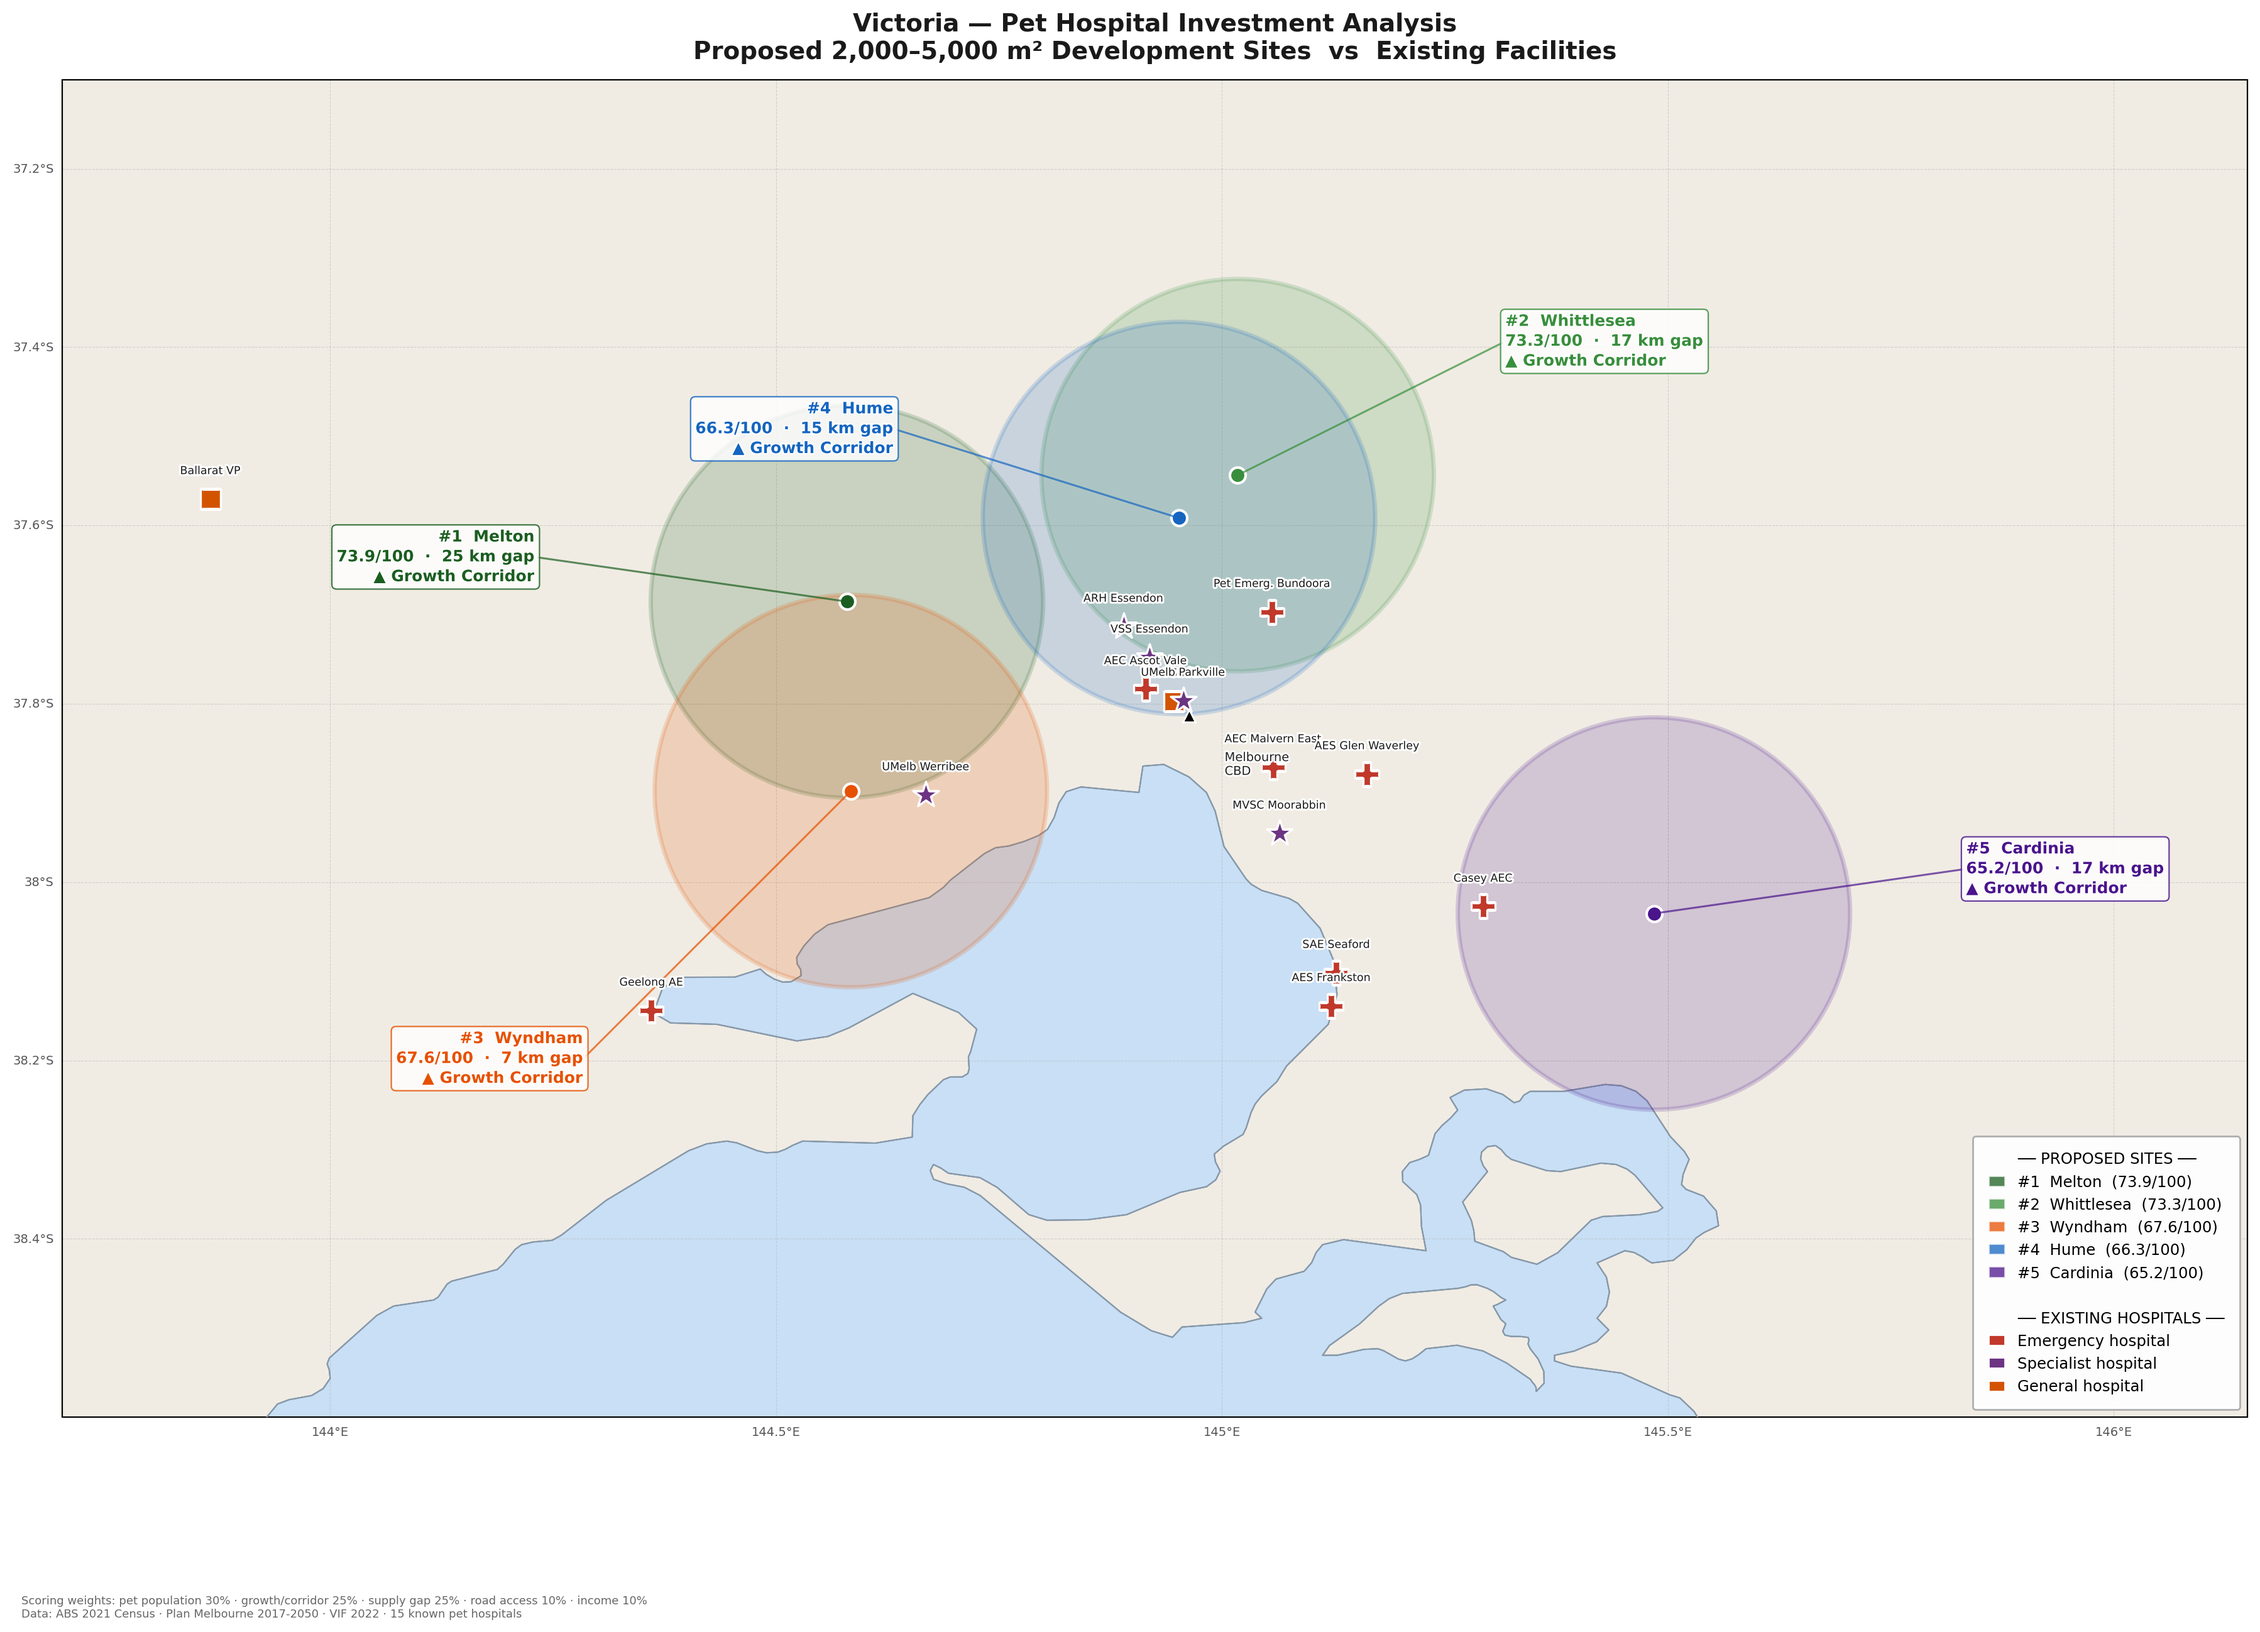
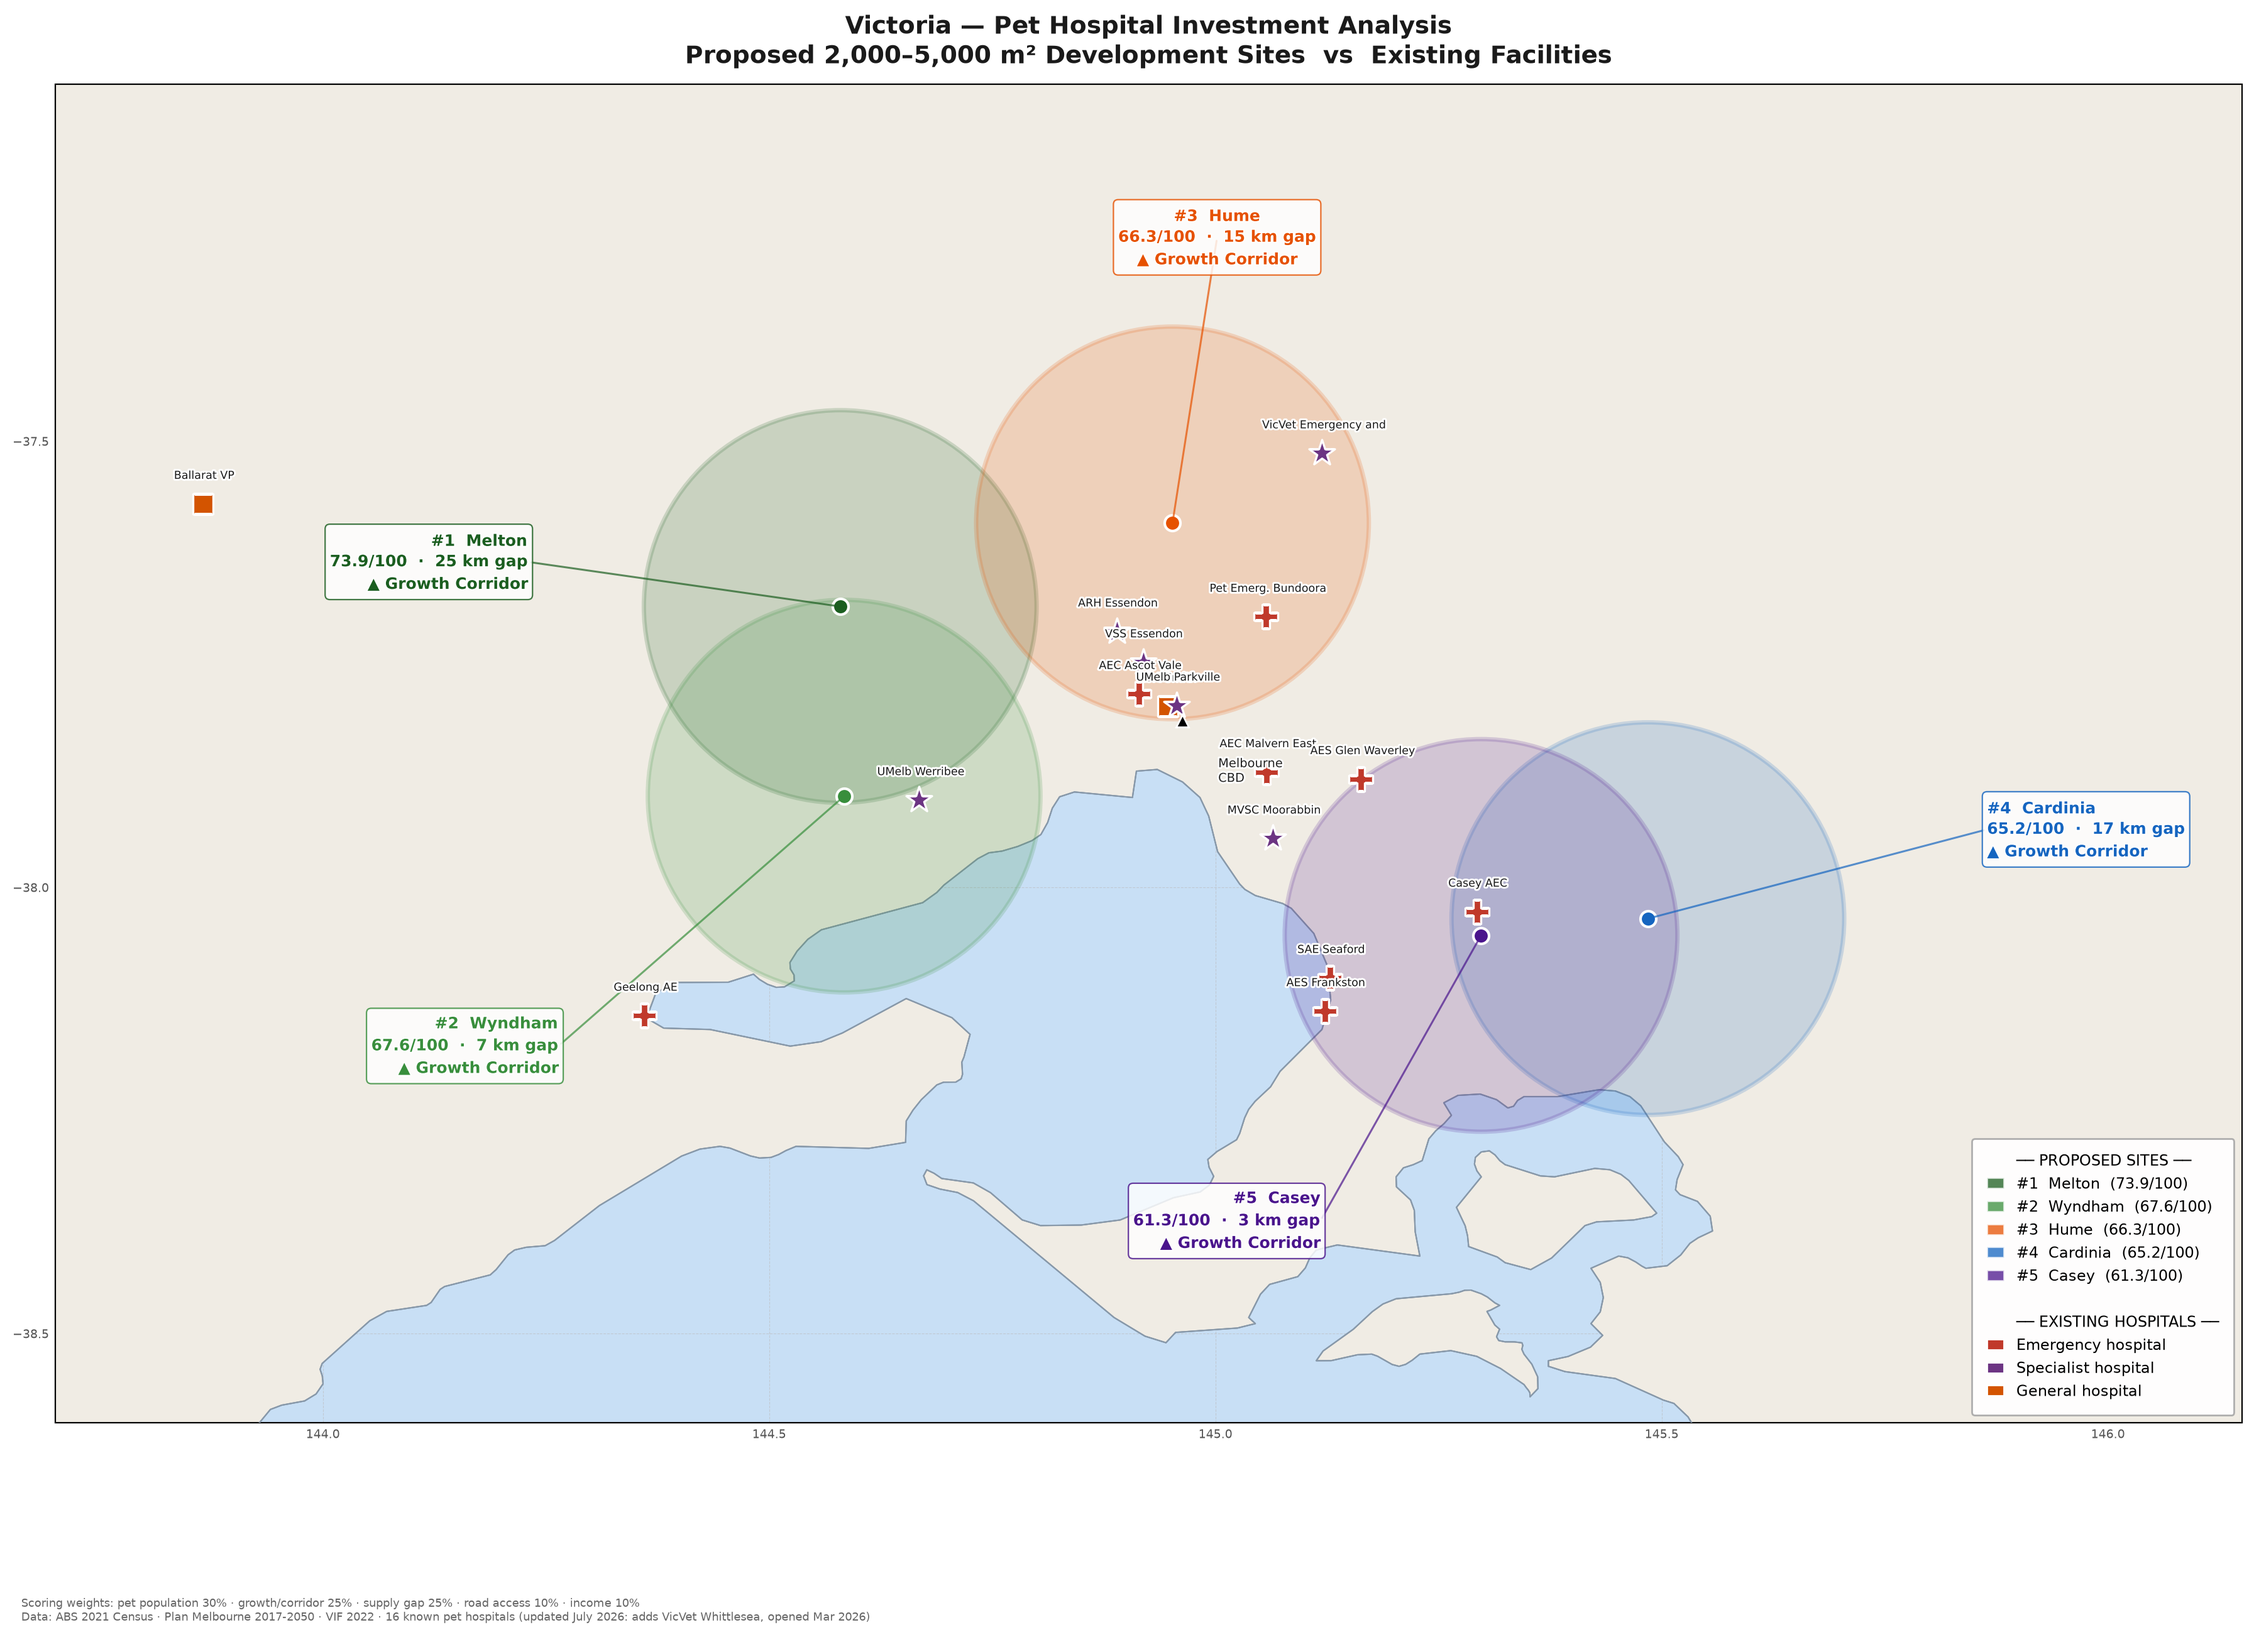
Update pet hospital analysis: add newly-opened VicVet Whittlesea
Re-verified the April 2026 investment recommendation and found VicVet
Emergency and Referral opened in March 2026 at 2394 Plenty Rd, Whittlesea
(24/7 emergency, critical care, surgery, oncology, internal medicine,
rehabilitation) - confirmed via multiple independent sources.

This directly closes the supply gap in our former #2 pick (City of
Whittlesea), dropping its supply-gap score from 100 to 40 and its
composite score from 73.3 to 58.3, moving it from rank #2 to rank #7 -
outside the top 5.

Updated top 5: Melton (73.9, unchanged #1), Wyndham (67.6, up from #3),
Hume (66.3, up from #4), Cardinia (65.2, up from #5), Casey (61.3, newly
enters top 5 - large pet population, only 3km from nearest hospital
already so its supply-gap score is capped low, but sheer catchment size
still clears the bar).

No other new competing facilities found in Melton, Wyndham, Hume, or
Cardinia as of July 2026 (only regular GP vet clinics, not
hospital-scale). Growth trajectories for all remaining picks reconfirmed
current as of 2024-25 data.

https://claude.ai/code/session_011u3y6YMHjzVxJb29N4KHxd

diff --git a/generate_map.py b/generate_map.py
@@ -119,13 +119,12 @@ states_feat = cfeature.ShapelyFeature(
 )
 ax.add_feature(states_feat, zorder=4)
 
-# Subtle land grid
-gl = ax.gridlines(draw_labels=True, linewidth=0.4, color='#bbbbbb',
-                  alpha=0.6, linestyle='--', zorder=5)
-gl.top_labels = False
-gl.right_labels = False
-gl.xlabel_style = {'size': 7, 'color': '#555555'}
-gl.ylabel_style = {'size': 7, 'color': '#555555'}
+# Subtle lat/lon tick labels (gridlines() omitted: current cartopy/shapely
+# combo throws on this extent's map boundary; not essential to the figure)
+ax.set_xticks(np.arange(144.0, 146.5, 0.5), crs=PROJ)
+ax.set_yticks(np.arange(-38.5, -37.0, 0.5), crs=PROJ)
+ax.tick_params(labelsize=7, colors='#555555', length=0)
+ax.grid(True, linewidth=0.4, color='#bbbbbb', alpha=0.6, linestyle='--', zorder=5)
 
 # ─── candidate LGA circles ─────────────────────────────────────────────────
 for i, row in enumerate(top_lgas):
@@ -157,16 +156,16 @@ for i, row in enumerate(top_lgas):
         label += f'\n{corr_tag}'
 
     # Per-candidate label offsets (dx, dy) tuned for Melbourne geography
-    # Melton=W, Whittlesea=N, Wyndham=SW, Hume=NW, Cardinia=SE
+    # Melton=W, Wyndham=SW, Hume=N, Cardinia=SE, Casey=S (near Cardinia)
     label_offsets = [
         (-0.35, 0.05),   # #1 Melton — label to the left
-        ( 0.30, 0.15),   # #2 Whittlesea — label upper-right
-        (-0.30,-0.30),   # #3 Wyndham — label lower-left
-        (-0.32, 0.10),   # #4 Hume — label left (avoid Whittlesea)
-        ( 0.35, 0.05),   # #5 Cardinia — label to the right
+        (-0.32,-0.28),   # #2 Wyndham — label lower-left
+        ( 0.05, 0.32),   # #3 Hume — label above
+        ( 0.38, 0.10),   # #4 Cardinia — label to the right
+        (-0.18,-0.32),   # #5 Casey — label below-left (avoid Cardinia)
     ]
     dx, dy = label_offsets[i]
-    ha_map = ['right', 'left', 'right', 'right', 'left']
+    ha_map = ['right', 'right', 'center', 'left', 'right']
 
     txt = ax.text(
         lng + dx, lat + dy,
@@ -262,7 +261,8 @@ ax.set_title(
 fig.text(
     0.01, 0.005,
     'Scoring weights: pet population 30% · growth/corridor 25% · supply gap 25% · road access 10% · income 10%\n'
-    'Data: ABS 2021 Census · Plan Melbourne 2017-2050 · VIF 2022 · 15 known pet hospitals',
+    f'Data: ABS 2021 Census · Plan Melbourne 2017-2050 · VIF 2022 · {len(hospitals)} known pet hospitals '
+    '(updated July 2026: adds VicVet Whittlesea, opened Mar 2026)',
     fontsize=6.5, color='#666666', va='bottom',
 )
 

diff --git a/pethosp/management/commands/seed_pethosp_data.py b/pethosp/management/commands/seed_pethosp_data.py
@@ -283,6 +283,14 @@ PET_HOSPITALS_DATA = [
      -37.9022, 144.6681,
      'specialist',
      'Surgery,Internal Medicine,Oncology,Cardiology,Neurology,Wildlife'),
+
+    # Added July 2026: opened March 2026, confirmed via web search.
+    # Coordinates approximate (Plenty Rd, Whittlesea township) - not precisely geocoded.
+    ('VicVet Emergency and Referral',
+     '2394 Plenty Rd', 'Whittlesea',
+     -37.5136, 145.1195,
+     'specialist',
+     'Emergency,Critical Care,Surgery,Oncology,Internal Medicine,Rehabilitation'),
 ]
 
 
